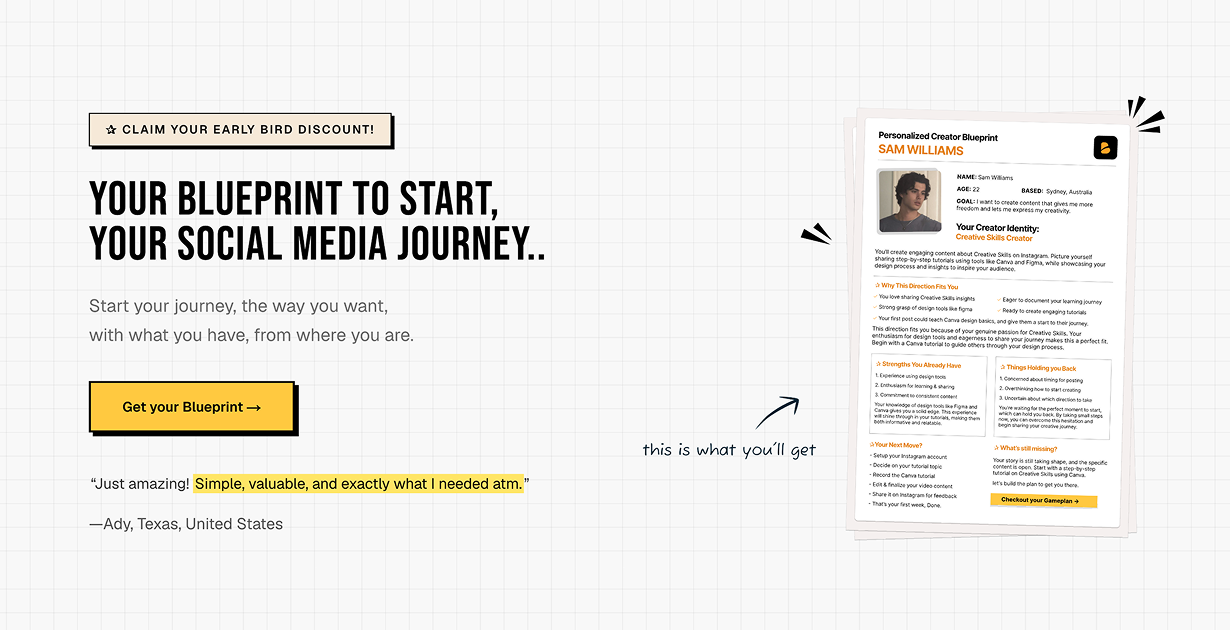
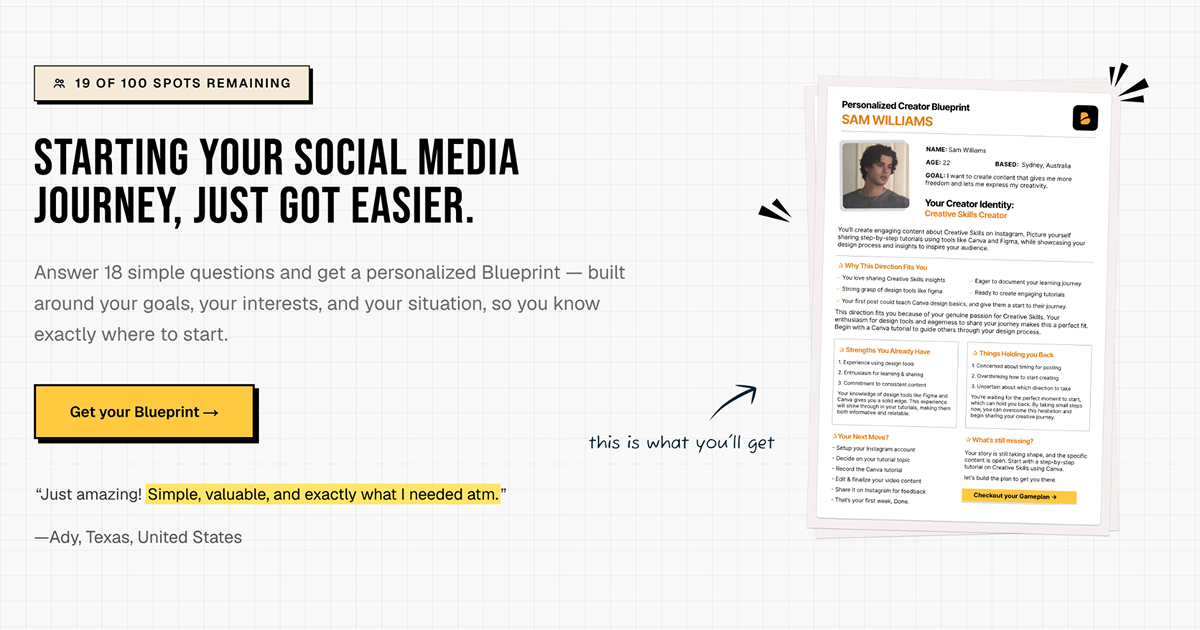
new og-image png & pricing $18 is back

diff --git a/components/Pricing.tsx b/components/Pricing.tsx
@@ -137,7 +137,7 @@ type PricingProps = {
 };
 
 export default function Pricing({
-  originalPrice,
+  originalPrice = "$18",
   salePrice = "$9",
   offerBadge = "SIMPLE PRICING",
   buttonLabel = "GET YOUR BLUEPRINT →",
@@ -228,7 +228,7 @@ export default function Pricing({
                 </p>
               </div>
 
-              <p className="mt-3 text-sm text-[#6B6B6B]">
+              <p className="mt-2 text-sm text-[#6B6B6B]">
                 One-Time Purchase
               </p>
             </div>
